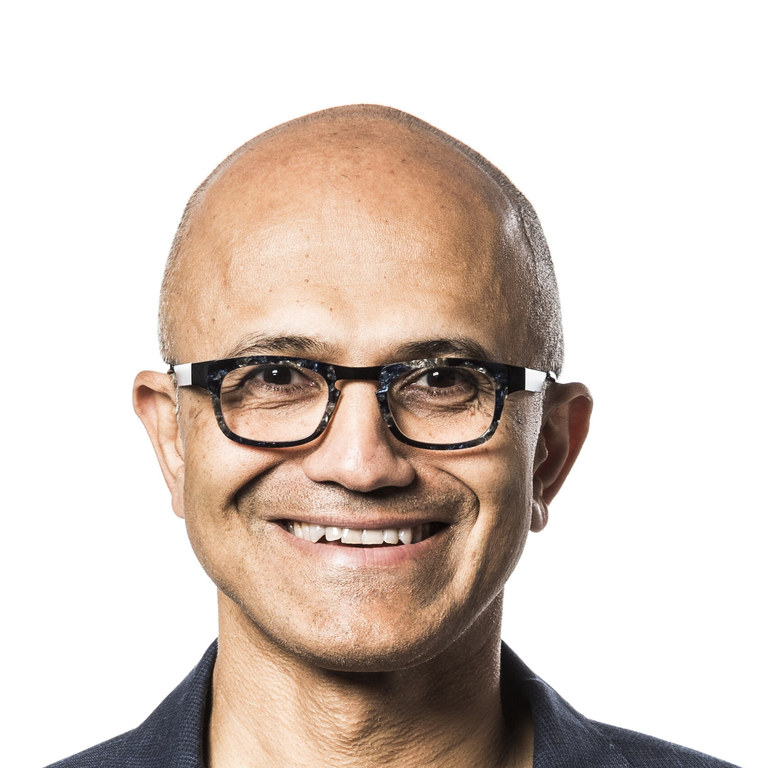
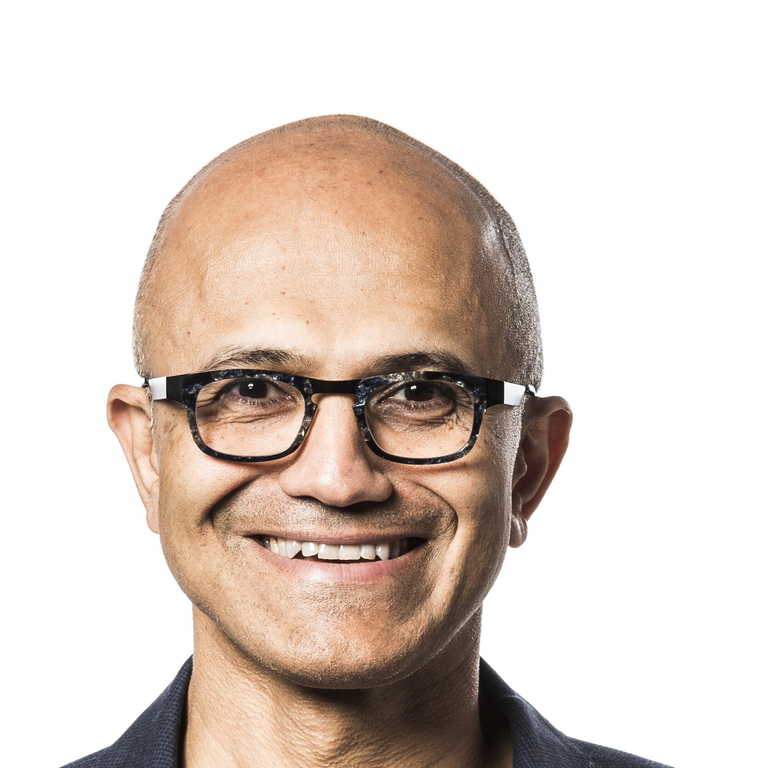
Give quote portraits more chin margin inside the circles.
Recrop the headshots with lower framing and bias object-position upward so circular masks stop clipping faces.

Changed region(s): [[0.0625, 0.125, 0.9688, 1.0], [0.375, 0.2812, 0.4062, 0.3438]]

diff --git a/frontend/src/site/SiteShell.js b/frontend/src/site/SiteShell.js
@@ -201,25 +201,25 @@ function HomePanel({ onOpenTab, onOpenGame }) {
       text: 'Wear your failure as a badge of honor.',
       name: 'Sundar Pichai',
       role: 'CEO, Google',
-      photo: '/images/quotes/sundar-pichai.png?v=12',
+      photo: '/images/quotes/sundar-pichai.png?v=13',
     },
     {
       text: 'Our industry does not respect tradition — it only respects innovation.',
       name: 'Satya Nadella',
       role: 'CEO, Microsoft',
-      photo: '/images/quotes/satya-nadella.png?v=12',
+      photo: '/images/quotes/satya-nadella.png?v=13',
     },
     {
       text: 'Talk is cheap. Show me the code.',
       name: 'Linus Torvalds',
       role: 'Creator of Linux',
-      photo: '/images/quotes/linus-torvalds.png?v=12',
+      photo: '/images/quotes/linus-torvalds.png?v=13',
     },
     {
       text: 'Design is not just what it looks like and feels like. Design is how it works.',
       name: 'Steve Jobs',
       role: 'Co-founder, Apple',
-      photo: '/images/quotes/steve-jobs.png?v=12',
+      photo: '/images/quotes/steve-jobs.png?v=13',
     },
   ];
   const fieldNotes = [

diff --git a/frontend/src/site/site.css b/frontend/src/site/site.css
@@ -3241,7 +3241,7 @@ body::-webkit-scrollbar,
   height: 100%;
   border-radius: 50%;
   object-fit: cover;
-  object-position: center 28%;
+  object-position: center 22%;
   display: block;
   background: #1a1024;
 }
